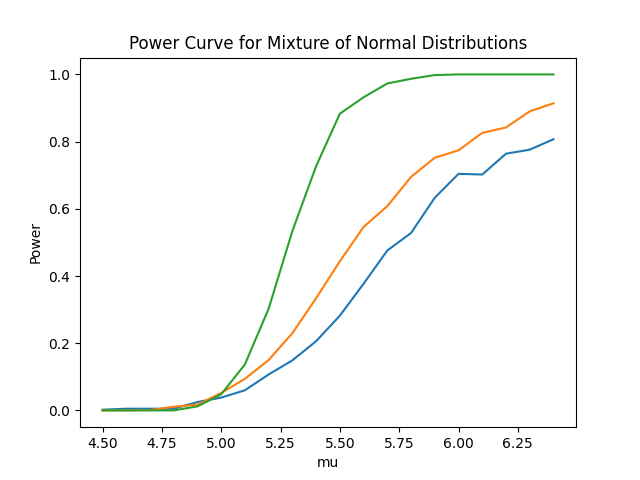
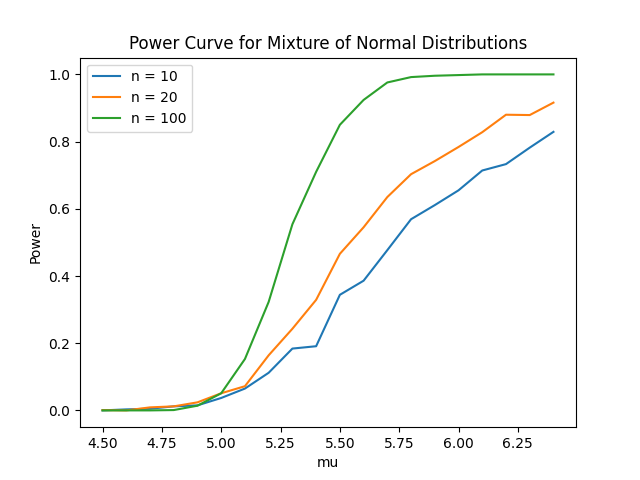
updated plots

diff --git a/question2.py b/question2.py
@@ -45,7 +45,7 @@ def plotResults(n, replications, ax, colors):
 
 
 
-sizes = [10, 20, 100]
+sizes = [20, 30, 100]
 replications = 1000
 colors = ["red", "green", "blue"]
 
